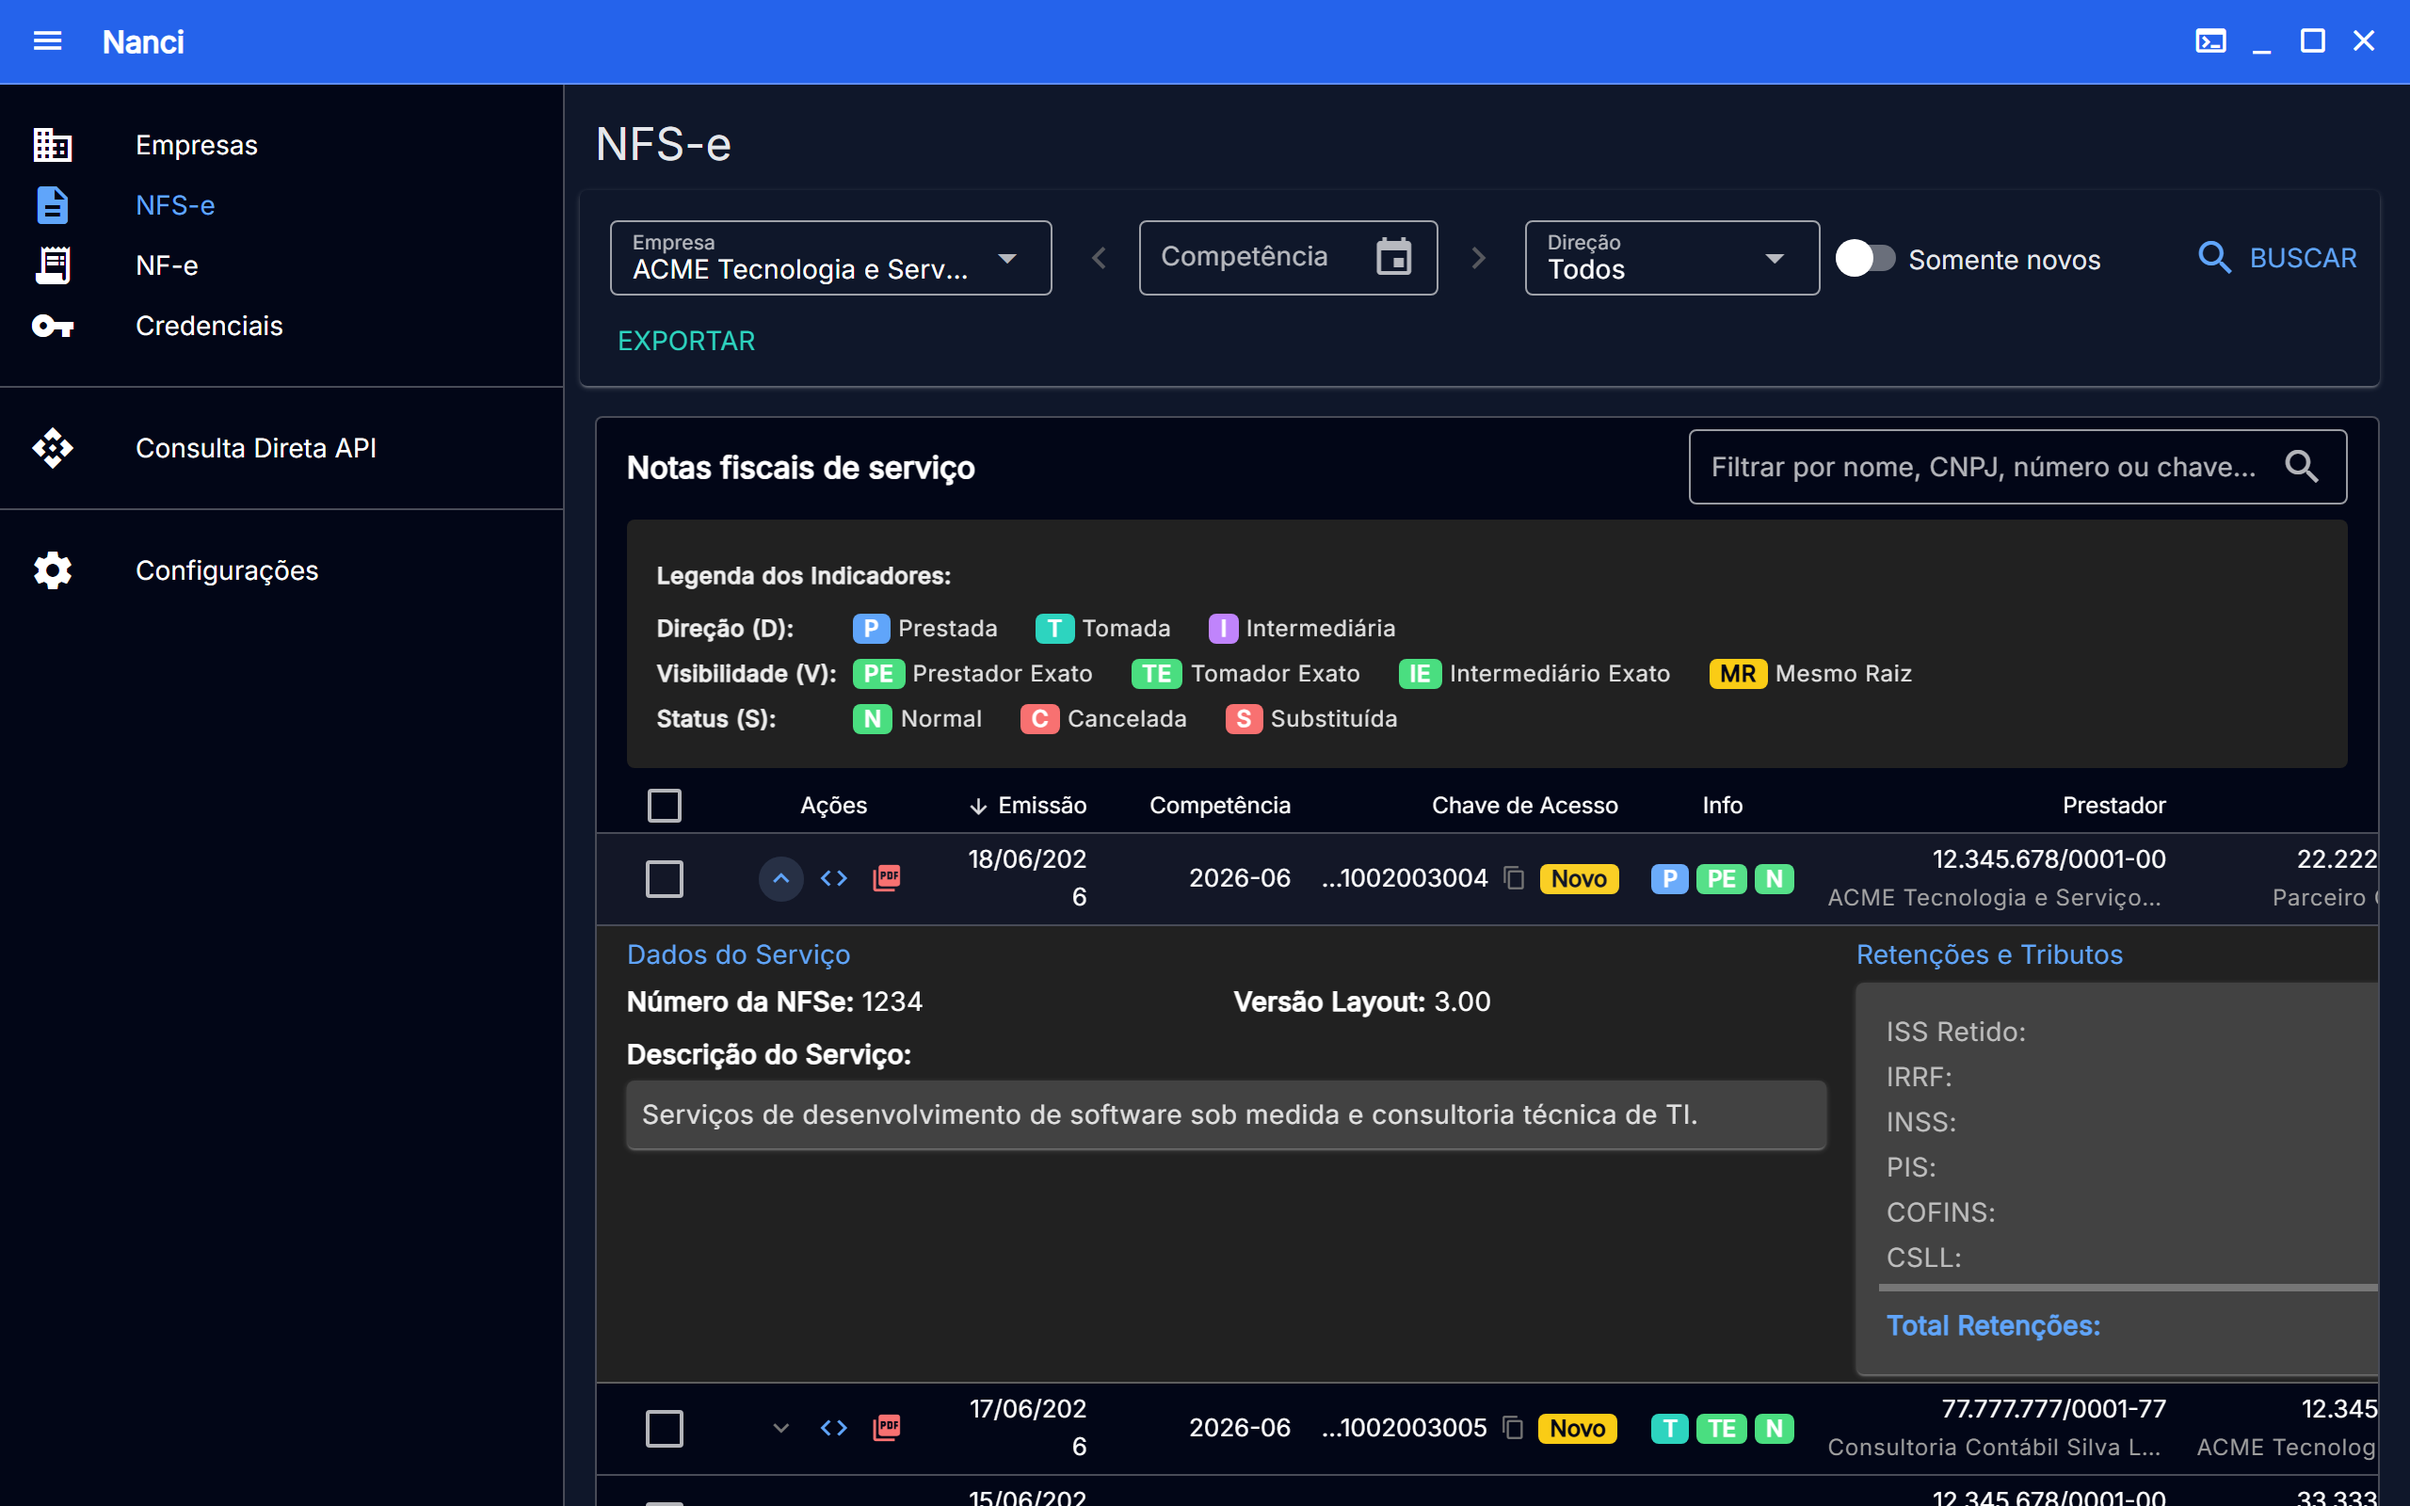
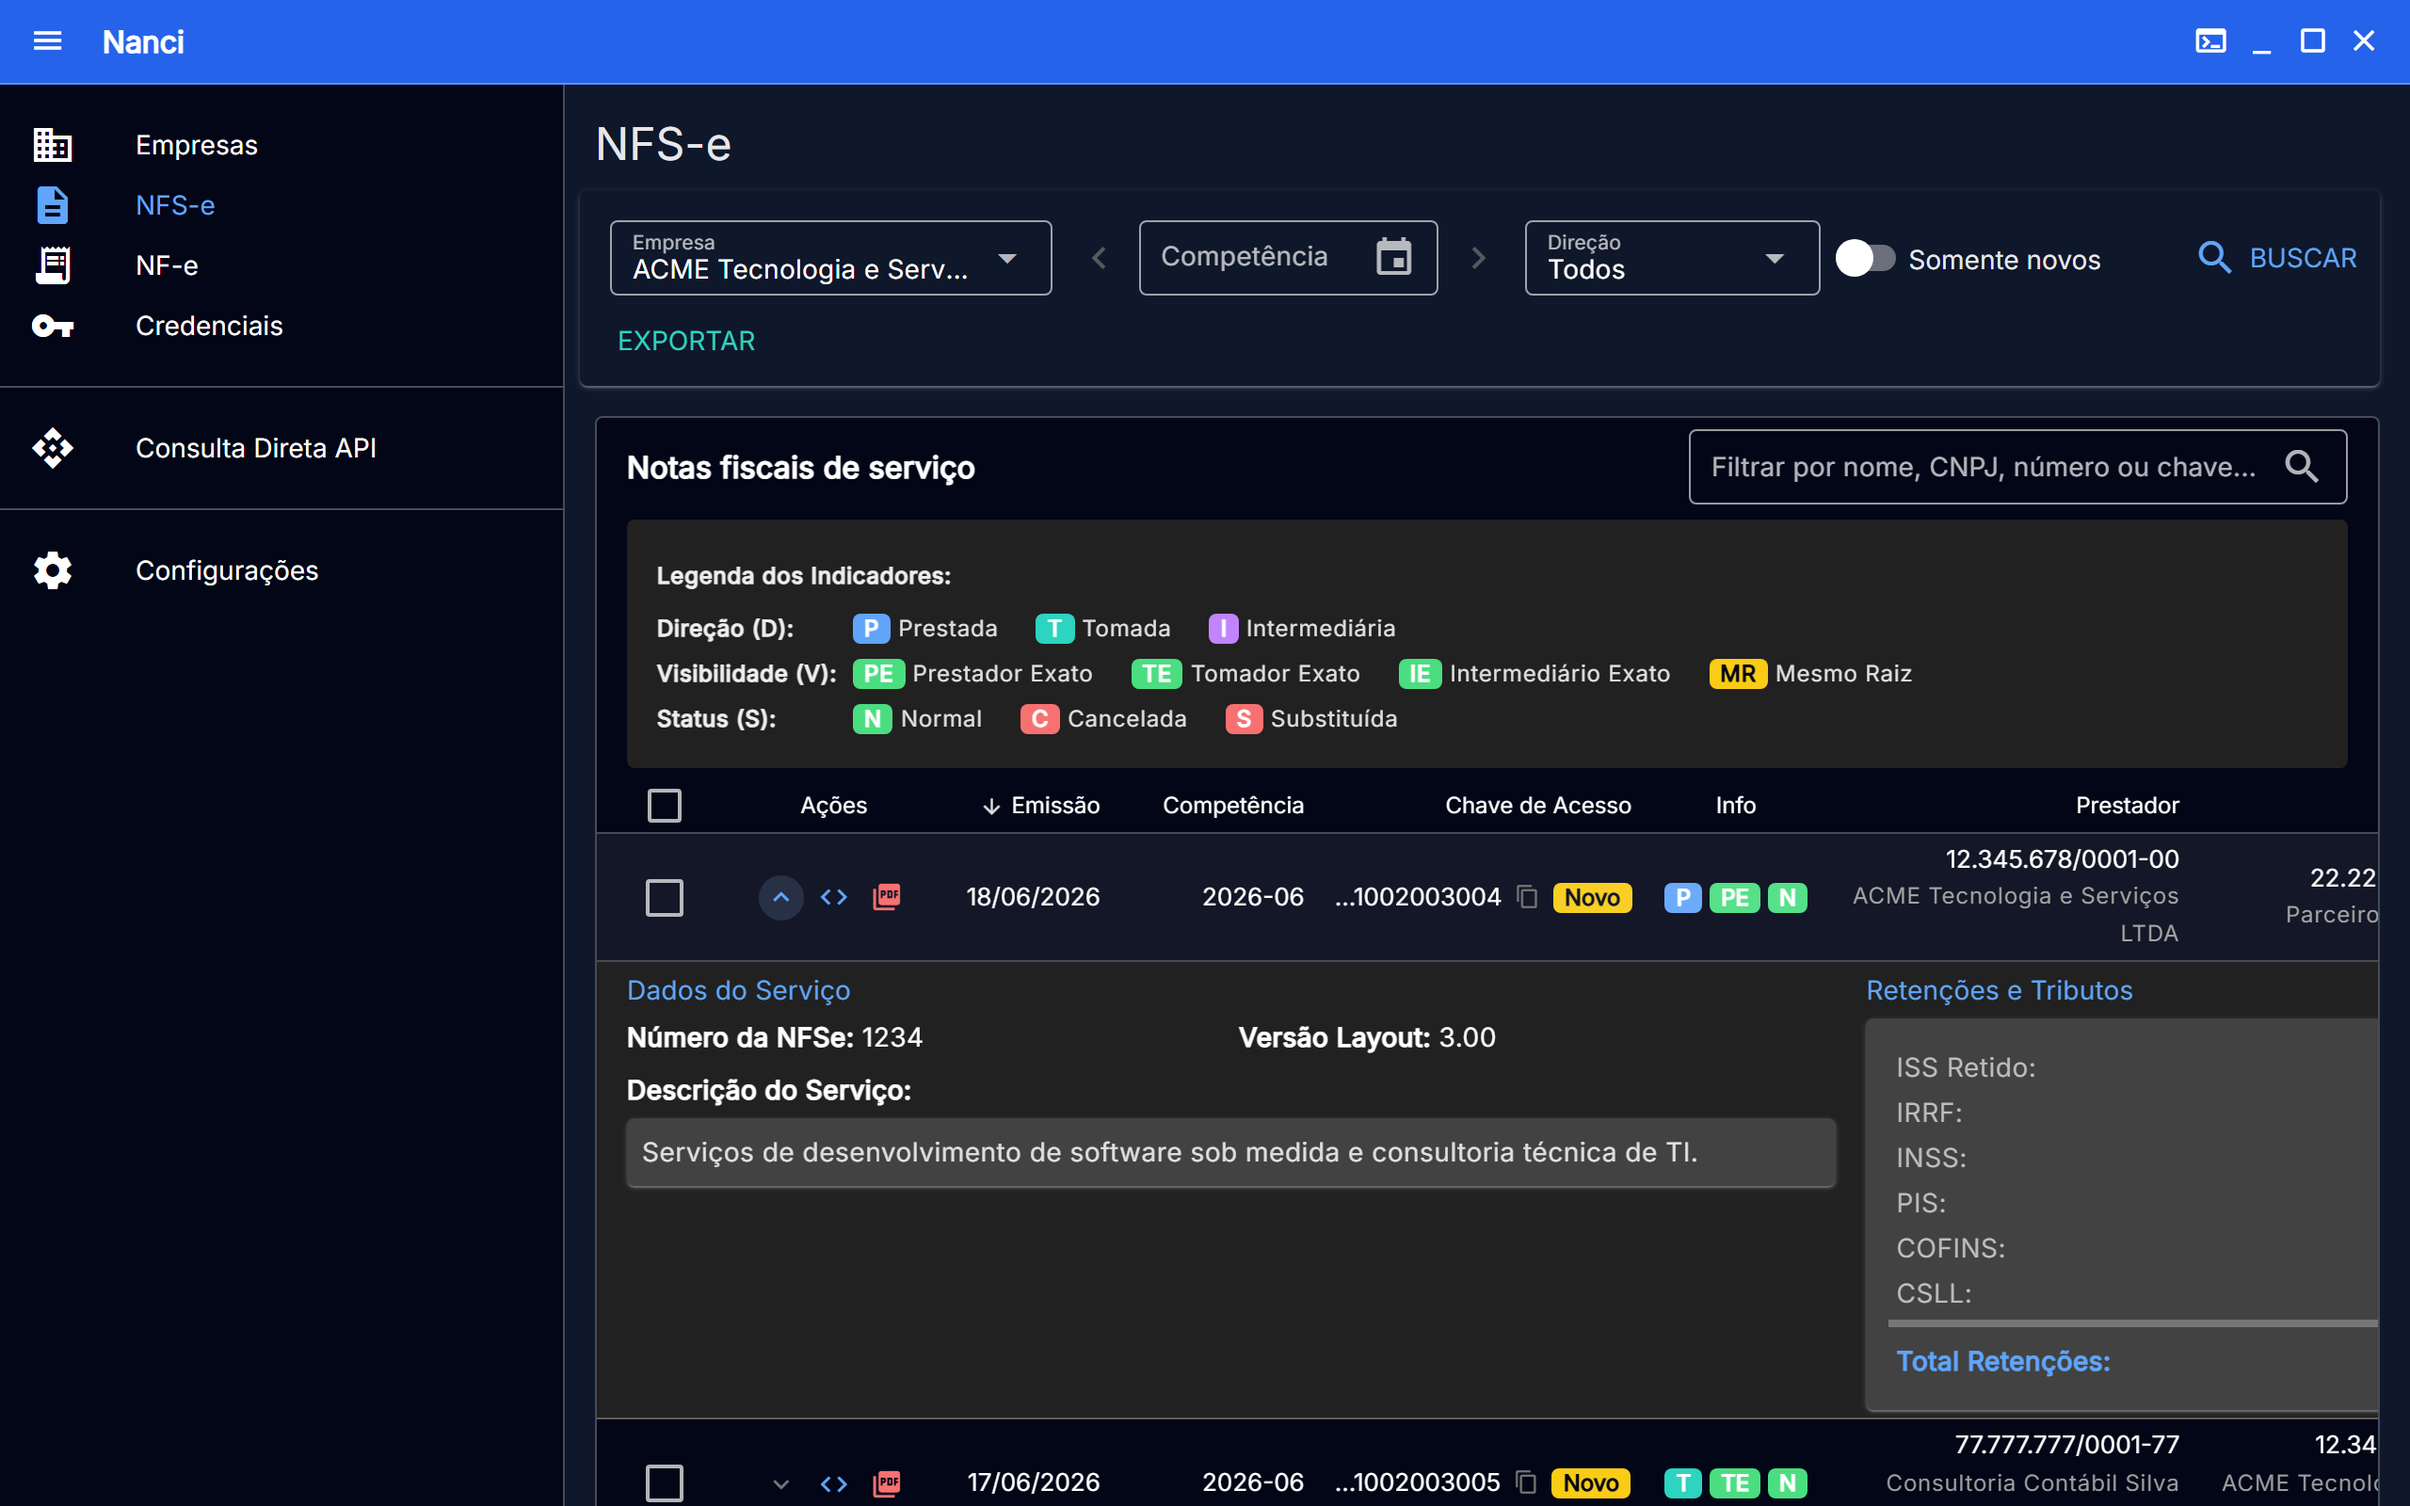
frontend: keep NFS-e table values on one line and wrap only the names
The page-wide td rule broke dates mid-number. Cells stay on one line and the table scrolls sideways, as on the NF-e page; the partner names and the expanded details still wrap.

Changed region(s): [[0.25, 0.5312, 1.0, 1.0], [0.4062, 0.5312, 0.4688, 0.625]]

diff --git a/internal/desktop/frontend/src/pages/DocumentsPage.vue b/internal/desktop/frontend/src/pages/DocumentsPage.vue
@@ -46,7 +46,7 @@ color="primary" icon="search" label="Buscar" :disable="loading || !filter.CNPJ" 
 v-model:pagination="pagination" v-model:selected="selected" :rows="filteredDocuments" :columns="columns"
       row-key="RelationID" selection="multiple"
       :loading="loading" no-data-label="Nenhum documento encontrado." binary-state-sort flat bordered dense
-      class="full-height">
+      class="full-height documents-table">
       <template #top>
         <div class="column full-width q-gutter-y-sm">
           <div class="row items-center justify-between full-width">
@@ -212,7 +212,7 @@ dense flat round size="xs" color="grey-7" icon="content_copy" title="Copiar Chav
               <div class="text-weight-medium">
                 {{ props.row.PrestadorCNPJ ? formatCpfCnpj(props.row.PrestadorCNPJ) : '-' }}
               </div>
-              <div class="text-caption text-grey-6 ellipsis partner-name" :title="props.row.PrestadorName || ''">
+              <div class="text-caption text-grey-6 partner-name" :title="props.row.PrestadorName || ''">
                 {{ props.row.PrestadorName || '-' }}
               </div>
             </template>
@@ -221,7 +221,7 @@ dense flat round size="xs" color="grey-7" icon="content_copy" title="Copiar Chav
               <div class="text-weight-medium">
                 {{ props.row.TomadorCNPJ ? formatCpfCnpj(props.row.TomadorCNPJ) : '-' }}
               </div>
-              <div class="text-caption text-grey-6 ellipsis partner-name" :title="props.row.TomadorName || ''">
+              <div class="text-caption text-grey-6 partner-name" :title="props.row.TomadorName || ''">
                 {{ props.row.TomadorName || '-' }}
               </div>
             </template>
@@ -235,7 +235,7 @@ dense flat round size="xs" color="grey-7" icon="content_copy" title="Copiar Chav
         </q-tr>
 
         <q-tr v-if="props.expand" :props="props" :class="['detail-container-borders', $q.dark.isActive ? 'bg-grey-10' : 'bg-grey-1']">
-          <q-td :colspan="props.cols.length + 1" class="q-pa-md">
+          <q-td :colspan="props.cols.length + 1" class="q-pa-md document-detail-cell">
             <div class="row q-col-gutter-md">
               <div class="col-12 col-md-7">
                 <div class="text-subtitle2 text-primary q-mb-xs">
@@ -733,9 +733,14 @@ function openEventsDialog(documentId?: string) {
   table-layout: auto;
 }
 
-:deep(.q-table td) {
+/* Values stay on one line and the table scrolls sideways; only the partner
+   names and the expanded details wrap. */
+.documents-table :deep(td) {
+  white-space: nowrap;
+}
+
+.documents-table :deep(td.document-detail-cell) {
   white-space: normal;
-  word-break: break-word;
 }
 
 .document-search-input {
@@ -756,7 +761,10 @@ function openEventsDialog(documentId?: string) {
 }
 
 .partner-name {
-  max-width: 180px;
+  min-width: 180px;
+  max-width: 240px;
+  white-space: normal;
+  overflow-wrap: break-word;
 }
 
 .service-description {
